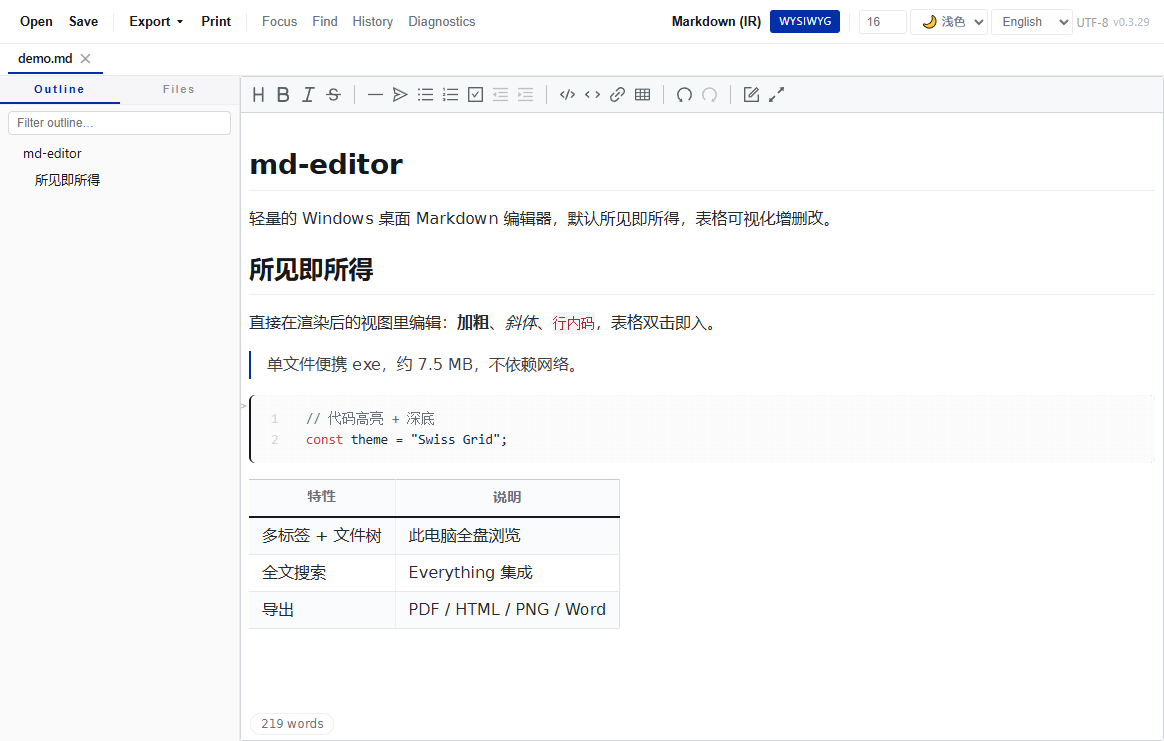
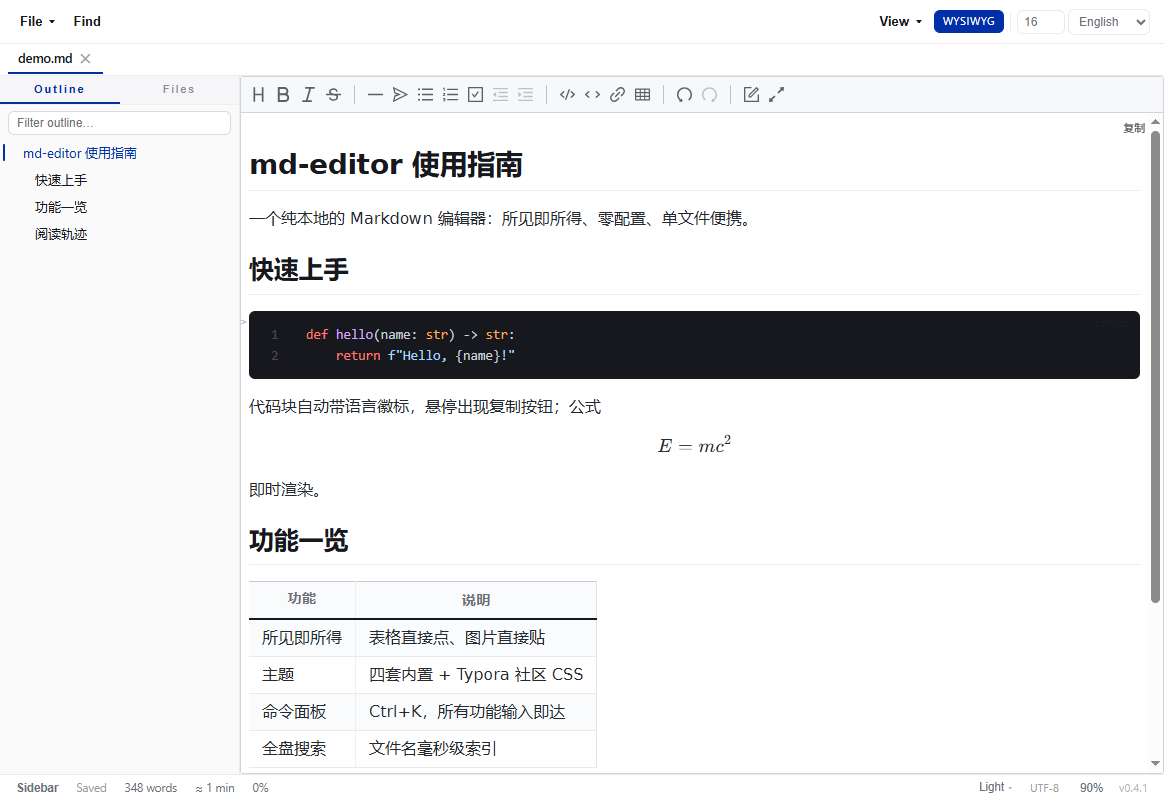
v0.4.1b light 档代码块 hljs 白底回归修复 + README 双图更新（v0.4.1 界面）
- codeTheme 按「代码块底色深浅」分档而非 Vditor 档位：light 代码块=瑞士深底
  #16181d，token 配 github-dark（浅亮色系）；eye/paper/user浅 保持 github
- styles.css 补 light 档 pre code.hljs 背景透明规则 (0,3,2)——v0.4.1 修复让
  codeTheme 真加载后 github.min.css .hljs{background:#fff} 压过 :not(.hljs)
  透明链，深底 pre 内嵌白底 code（README 截图实测实锤）
- README 截图重拍：断言=可见性感知代码块深底 + DOM rect×DPR 像素对账
  （dark_ratio 0.968）+ 状态栏区域扫描 + 克莱因蓝存在；四档回归 + verify_
  math_theme 26/26

diff --git a/src/main.ts b/src/main.ts
@@ -2431,11 +2431,15 @@ function vditorThemeTrio(): ["dark" | "classic", string] {
 }
 /** Vditor 档位应用统一入口。v0.4.1 根修：setTheme 第三参 codeTheme 不传时恒默认亮色
  *  github（.hljs{background:#fff}）→ 深色档下代码块/公式源码态 code 白底（实测
- *  CODE.language-js.hljs=rgb(255,255,255)）。dark 档同步换 github-dark。 */
+ *  CODE.language-js.hljs=rgb(255,255,255)）。dark 档同步换 github-dark。
+ *  v0.4.1b 修正：codeTheme 按「代码块底色深浅」分而非 Vditor 档位——light 档代码块是
+ *  瑞士深底(#16181d)，配 github(白底深字 token)既白底回归又字不可读，改配 github-dark；
+ *  eye/paper/user浅 代码块浅底，保持 github。背景由 styles.css 透明化规则统一接管。 */
 function vditorApplyTheme(): void {
   const [vd, ct] = vditorThemeTrio();
+  const darkCode = themeName === "dark" || themeName === "light" || (themeName.startsWith("user:") && userThemeDark);
   try {
-    vditor?.setTheme(vd, ct, vd === "dark" ? "github-dark" : "github", "/vditor-assets/dist/css/content-theme");
+    vditor?.setTheme(vd, ct, darkCode ? "github-dark" : "github", "/vditor-assets/dist/css/content-theme");
   } catch { /* 未就绪：after 回调挂载后补应用 */ }
 }
 function applyTheme(name: string, persist = true): void {

diff --git a/src/styles.css b/src/styles.css
@@ -170,6 +170,14 @@ html[data-theme="paper"] .vditor-reset kbd { background-color: #ead9b5 !importan
 html[data-theme] .vditor-reset pre:has(.language-math) { background: transparent !important; border: none !important; }
 html[data-theme] .vditor-reset pre:has(.language-math) code { background: transparent !important; }
 
+/* v0.4.1b light 档代码块 hljs 背景透明化：codeTheme 真加载后 github.min.css 的
+   .hljs{background:#fff}(0,1,0) 压过下方 pre code :not(.hljs) 透明规则（该链有意排除
+   hljs）→ 深底 pre 内嵌白底 code 块（v0.4.1 回归，README 截图实测实锤）。
+   此处 (0,3,2) 压回，背景由 L188 pre 深底统治，codeTheme 只出 token 色；
+   eye 档由 eye.css .vditor-reset pre>code (0,2,2) 域内自管、paper 档 L153 带
+   !important 均不受本规则影响（本规则仅 light 档命中）。 */
+html[data-theme="light"] .vditor-reset pre code.hljs { background: transparent; }
+
 /* ===== v0.3.29 瑞士网格正文排版（light 主题内容覆盖，设计稿 C）：
    近黑粗标题 / 细克莱因蓝引用线 / 行内码浅灰底 / 代码块深底浅字 /
    表头小写字距+2px 近黑底线 / 链接克莱因蓝。特异性 (0,2,1) 压过 Vditor light.css
